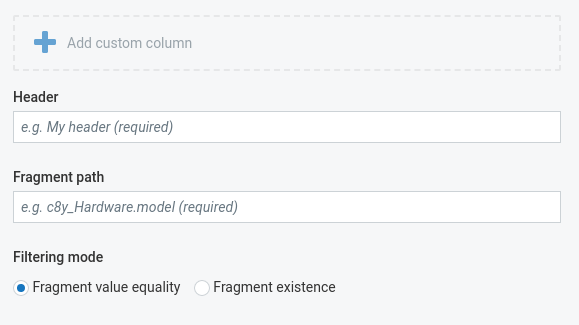
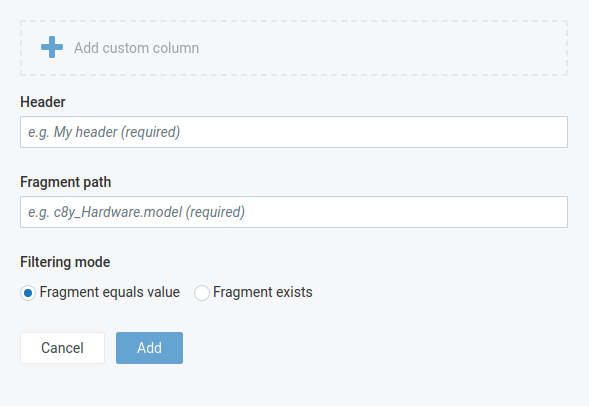
changed terminology for fragmet equality and existence

diff --git a/content/users-guide/device-management-bundle/viewing-devices.md b/content/users-guide/device-management-bundle/viewing-devices.md
@@ -86,9 +86,9 @@ Moreover, you can add custom columns to show additional device properties.
 2. In the **Header** field, Enter a header for the new custom column.  
 3. In the **Fragment path** field, enter the property of the device to be shown. Nested properties will be accepted. However, for nested properties its only possible to select Cumulocity standard fragments like `c8y_Mobile.mcc`.
 4. Select the **Filtering mode** for the new column. <br>
-If you select **Fragment value equality**, a value will only be shown if it matches the criteria specified by you in an additional dialog box.<br>
+If you select **Fragment equals value**, a value will only be shown if it matches the criteria specified by you in an additional dialog box.<br>
 ![Specify values](/guides/images/users-guide/DeviceManagement/devmgmt-device-list-custom-column.png)
-<br>In case of **Fragment existence**, filtering will be done by existence, i.e. filtering is done based on whether the property exists or not.    
+<br>In case of **Fragment exists**, filtering will be done by existence, i.e. filtering is done based on whether the property exists or not.    
 5. Click **Add**.
 
 The new column will be added and displayed in the device list.
@@ -136,9 +136,9 @@ Apart from filtering for text there are several other options:
 * In case of date fields (e.g. **Registration date**), you specify a date range to filter for. 
 * In the **Status** column you can filter for various criteria representing the send, push or maintenance status of the device.
 * In the **Alarm** column the filtering options you may select correspond to the alarm types (critical, major, minor, warning, no alarms).
-* For custom columns, if the filter criteria was set to **Fragment value equality** during configuration, then a value needs to be provided
+* For custom columns, if the filter criteria was set to **Fragment equals value** during configuration, then a value needs to be provided
 ![Filter by value](/guides/images/users-guide/DeviceManagement/devmgmt-filter-value.png)
-* If the filter criteria was set to **Fragment existence**, during configuration then the filtering will be done based on whether the fragment exists or not
+* If the filter criteria was set to **Fragment exists**, during configuration then the filtering will be done based on whether the fragment exists or not
 ![Filter by existence](/guides/images/users-guide/DeviceManagement/devmgmt-filter-existence.png)
 
 In the **Filter options** dialog box, click **Ascending** or **Descending** if you want the devices to be sorted in a specific order. Finally, click **Apply** to carry out the filtering. 
